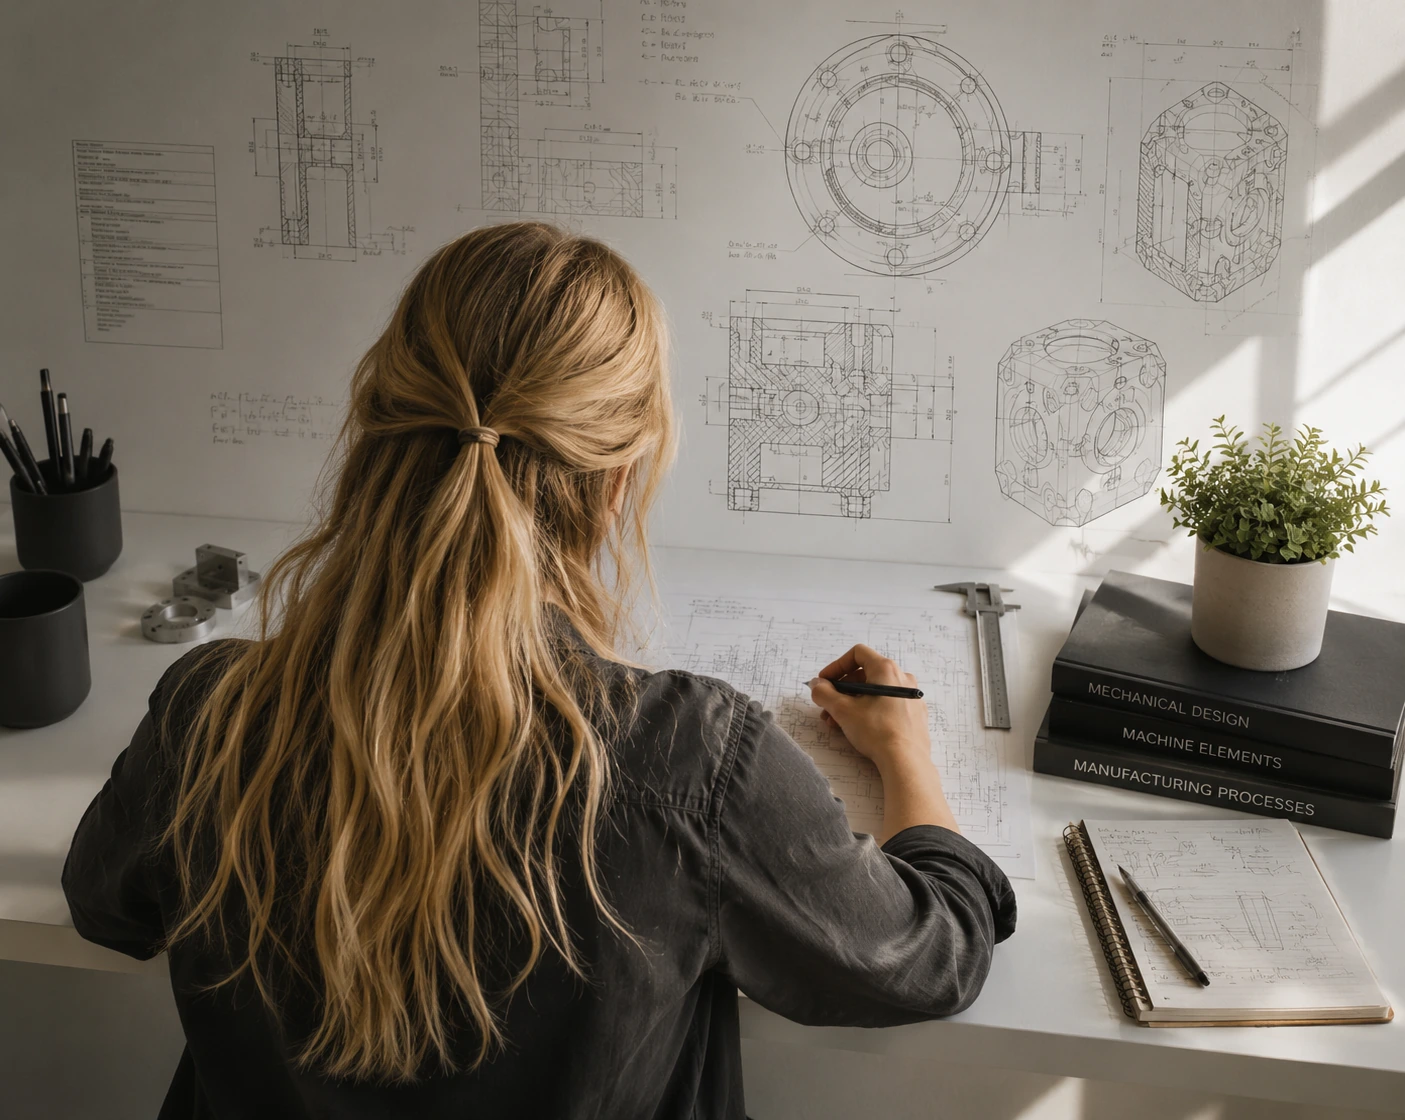
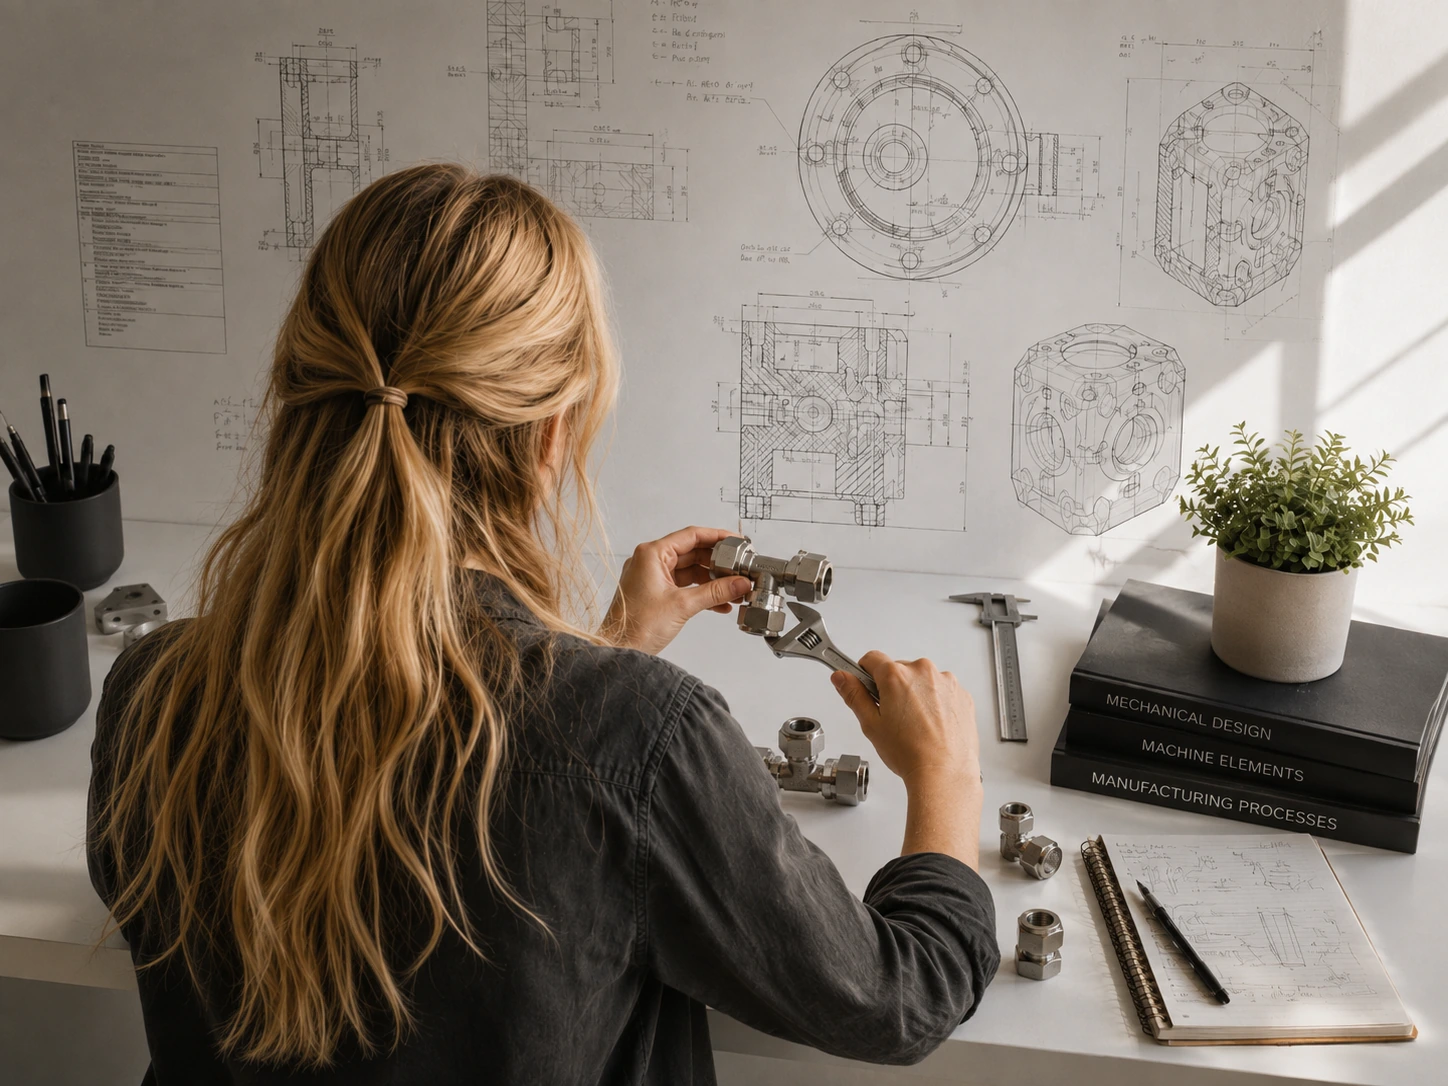
New image

diff --git a/src/app/sections/hero/hero.html b/src/app/sections/hero/hero.html
@@ -1,24 +1,44 @@
 <section
   id="home"
-  class="relative scroll-mt-20 overflow-hidden bg-charcoal px-6 py-14 text-soft-white md:py-16 lg:px-10 lg:py-24"
+  class="relative isolate scroll-mt-20 overflow-hidden bg-canvas px-6 py-14 text-graphite sm:py-16 lg:min-h-[560px] lg:px-10 lg:py-20"
 >
-  <!-- Subtle engineering grid -->
-  <div
-    class="pointer-events-none absolute inset-0 opacity-[0.06]"
+  <!-- Background image -->
+  <img
+    src="images/hero-engineering.webp"
+    alt=""
     aria-hidden="true"
+    class="absolute inset-0 -z-30 h-full w-full object-cover object-[48%_55%] lg:object-[55%_58%]"
+  />
+
+  <!-- Mobile readability overlay -->
+  <div class="absolute inset-0 -z-20 bg-canvas/70 lg:hidden"></div>
+
+  <!-- Desktop gradient: strong only behind text -->
+  <div
+    class="absolute inset-0 -z-20 hidden lg:block"
     style="
-      background-image:
-        linear-gradient(to right, #ffffff 1px, transparent 1px),
-        linear-gradient(to bottom, #ffffff 1px, transparent 1px);
-      background-size: 48px 48px;
+      background: linear-gradient(
+        90deg,
+        rgba(244, 241, 234, 0.97) 0%,
+        rgba(244, 241, 234, 0.9) 28%,
+        rgba(244, 241, 234, 0.48) 48%,
+        rgba(244, 241, 234, 0.08) 67%,
+        transparent 78%
+      );
     "
   ></div>
 
+  <!-- Slight bottom gradient for image softness -->
   <div
-    class="relative mx-auto grid w-full max-w-7xl items-center gap-12 lg:grid-cols-[0.9fr_1.1fr] lg:gap-20"
-  >
+    class="absolute inset-x-0 bottom-0 -z-10 h-24 bg-gradient-to-t from-canvas/30 to-transparent"
+    aria-hidden="true"
+  ></div>
+
+  <div class="mx-auto flex w-full max-w-7xl items-center">
     <!-- Hero text -->
-    <div>
+    <div
+      class="max-w-xl bg-canvas/55 p-5 backdrop-blur-[1px] sm:p-7 lg:max-w-[610px] lg:bg-transparent lg:p-0 lg:backdrop-blur-none"
+    >
       <p
         class="text-sm font-medium uppercase tracking-[0.25em] text-copper lg:text-base lg:tracking-[0.3em]"
       >
@@ -26,42 +46,42 @@
       </p>
 
       <h1
-        class="mt-4 max-w-2xl text-5xl font-semibold leading-none tracking-tight sm:text-6xl lg:mt-6 lg:text-[5.25rem]"
+        class="mt-4 text-5xl font-semibold leading-none tracking-tight sm:text-6xl lg:mt-6 lg:text-[5.25rem]"
       >
         Hi, I’m Chloe.
       </h1>
 
       <p
-        class="mt-5 max-w-lg text-base leading-7 text-soft-white/70 sm:text-lg lg:mt-7 lg:max-w-xl lg:text-xl lg:leading-8"
+        class="mt-5 max-w-lg text-base leading-7 text-graphite/70 sm:text-lg lg:mt-7 lg:max-w-xl lg:text-xl lg:leading-8"
       >
         I combine technical problem-solving with hands-on design to create practical, manufacturable
         products.
       </p>
 
-      <div
-        class="mt-6 grid grid-cols-2 gap-x-5 gap-y-2 text-sm font-medium text-soft-white/55 sm:flex sm:flex-wrap sm:gap-x-7 lg:mt-9 lg:gap-x-10 lg:text-base"
-      >
-        <span>CAD Design</span>
-        <span>Prototyping</span>
-        <span>Testing</span>
-        <span>Manufacturing</span>
-      </div>
-    </div>
+      <div class="mt-7 grid grid-cols-2 gap-3 sm:flex sm:flex-wrap lg:mt-9 lg:gap-4">
+        <span
+          class="border border-metal/80 bg-soft-white/75 px-3 py-2 text-sm font-medium text-graphite/70 backdrop-blur-sm lg:px-4 lg:text-base"
+        >
+          CAD Design
+        </span>
 
-    <!-- Hero image -->
-    <div class="relative mx-auto w-full max-w-[560px] lg:max-w-[620px] lg:justify-self-end">
-      <div class="absolute -inset-4 border border-copper/30 lg:-inset-5"></div>
+        <span
+          class="border border-metal/80 bg-soft-white/75 px-3 py-2 text-sm font-medium text-graphite/70 backdrop-blur-sm lg:px-4 lg:text-base"
+        >
+          Prototyping
+        </span>
 
-      <div class="relative aspect-[4/3] overflow-hidden bg-steel">
-        <img
-          src="images/hero-engineering.webp"
-          alt="Mechanical engineer working on technical product drawings"
-          class="h-full w-full object-cover object-center"
-        />
+        <span
+          class="border border-metal/80 bg-soft-white/75 px-3 py-2 text-sm font-medium text-graphite/70 backdrop-blur-sm lg:px-4 lg:text-base"
+        >
+          Testing
+        </span>
 
-        <div
-          class="absolute inset-0 bg-gradient-to-t from-charcoal/35 via-transparent to-transparent"
-        ></div>
+        <span
+          class="border border-metal/80 bg-soft-white/75 px-3 py-2 text-sm font-medium text-graphite/70 backdrop-blur-sm lg:px-4 lg:text-base"
+        >
+          Manufacturing
+        </span>
       </div>
     </div>
   </div>
